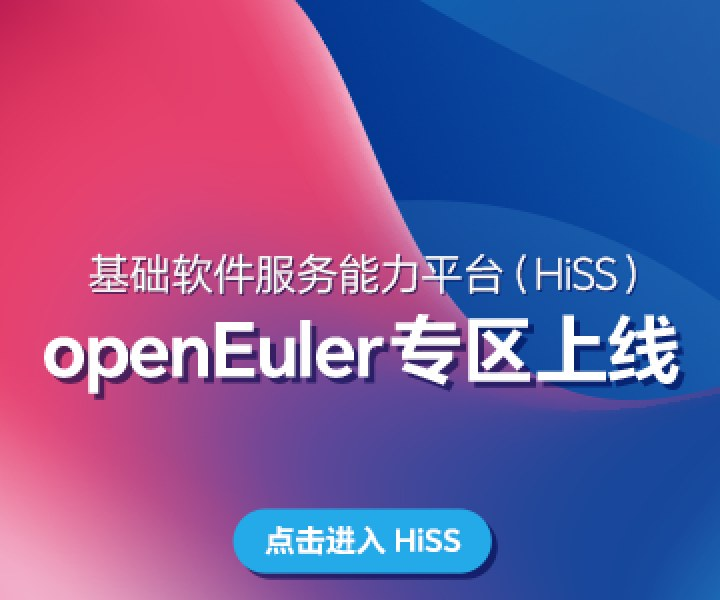
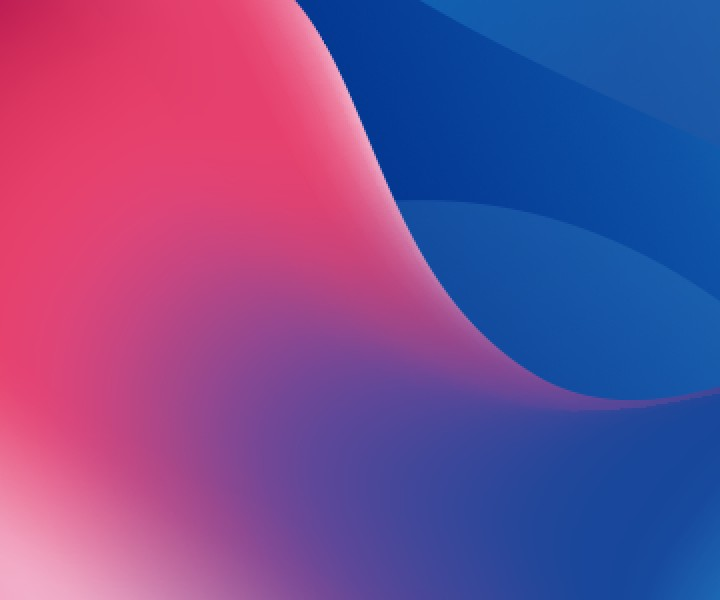
feat:基础软件banner
feat：基础软件服务能力平台Hiss banner

Changed region(s): [[0.0611, 0.42, 0.9472, 0.69], [0.3056, 0.84, 0.7028, 0.99]]

diff --git a/app/.vitepress/src/data/home/index.ts b/app/.vitepress/src/data/home/index.ts
@@ -9,8 +9,8 @@ import easyEdit_mo from '@/assets/category/home/banner/easy-edit_mo.jpg';
 
 import techDay_pc from '@/assets/category/home/banner/tech-day_pc.png';
 import techDay_mo from '@/assets/category/home/banner/tech-day_mo.png';
-// import base_pc from '@/assets/category/home/banner/base_pc.jpg';
-// import base_mo from '@/assets/category/home/banner/base_mo.jpg';
+import base_pc from '@/assets/category/home/banner/base_pc.jpg';
+import base_mo from '@/assets/category/home/banner/base_mo.jpg';
 
 import eur_mo from '@/assets/category/home/banner/eur-banner_mo.jpg';
 import eur_pc from '@/assets/category/home/banner/eur-banner_pc.jpg';
@@ -54,13 +54,16 @@ export default {
         title: ['openEuler', '用户软件仓（EUR）发布'],
         targetTap: 1,
       },
-      // {
-      //   pcBanner: base_pc,
-      //   moBanner: base_mo,
-      //   targetTap: 1,
-      //   link: 'https://hiss.shixizhi.huawei.com/portal/1643780836745113602?pageId=1644269448177651714&activeIndex=-1&sxz-lang=zh_CN',
-      //   id: '',
-      // },
+      {
+        pcBanner: base_pc,
+        moBanner: base_mo,
+        targetTap: 1,
+        link: 'https://hiss.shixizhi.huawei.com/portal/1643780836745113602?pageId=1644269448177651714&activeIndex=-1&sxz-lang=zh_CN',
+        id: '',
+        title: ['基础软件服务能力平台Hiss'],
+        desc: ['openEuler专区上线'],
+        btn: '点击查看',
+      },
     ],
     en: [
       {
